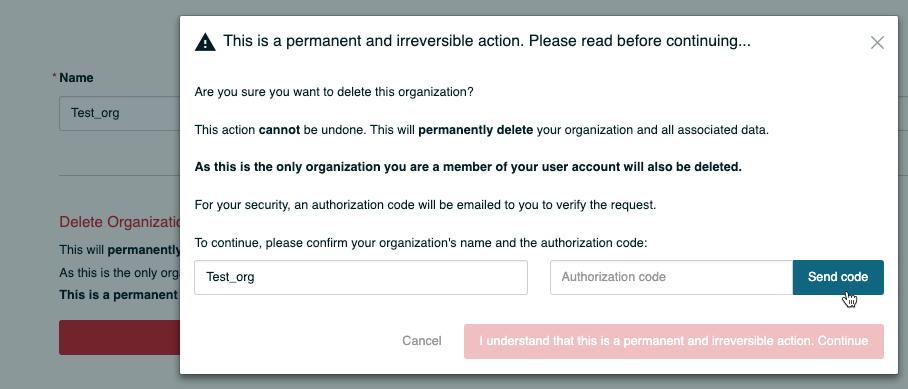
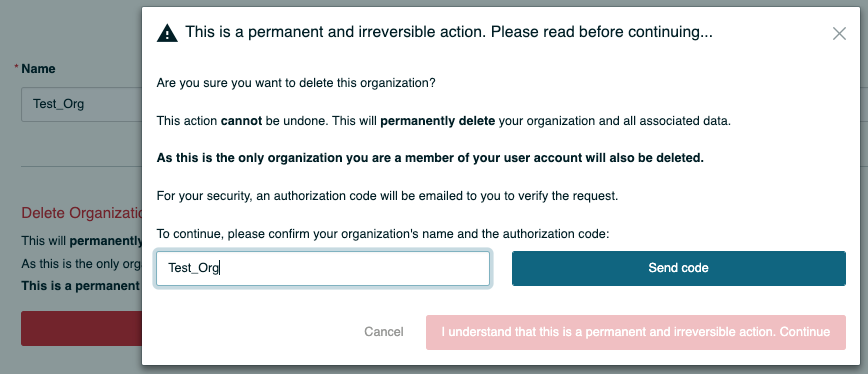
updated the modal image for UI changes and reordered the self deletion steps

Changed region(s): [[0.0, 0.0, 0.9954, 1.0], [0.0, 0.1765, 0.1244, 0.2353]]

diff --git a/content/en/docs/management_guide/managing_accounts.md b/content/en/docs/management_guide/managing_accounts.md
@@ -147,8 +147,8 @@ The option to delete your account is available for the user if there are no paid
 ![Deleting your account](/Images/account_settings_delete.png)
 
 1. Click **Delete**. A modal displays.
-2. Click **Send code**. An authorization code is emailed to your Platform user account email address.
-3. Type the password of your account used to sign into the Platform in the modal.
+2. Type the password of your account used to sign into the Platform in the modal.
+3. Click **Send code**. An authorization code is emailed to your Platform user account email address.
 4. Access your email with the authorization code, and then copy and paste or type the code into the **Authorization code** field in the modal.
 5. Click **I understand that this is a permanent and irreversible. Continue**.
 

diff --git a/content/en/docs/management_guide/organizations/managing_organizations.md b/content/en/docs/management_guide/organizations/managing_organizations.md
@@ -288,8 +288,8 @@ The option to delete an organization is available for the organization if there 
 
 1. (Optional) Copy the organization name from the Manage view.
 2. Click **Delete**. A modal displays.
-3. Click **Send code**. An authorization code is emailed to your Platform user account email address.
-4. Type or paste the organization name you want to delete in the modal.
+3. Type or paste the organization name you want to delete in the modal.
+4. Click **Send code**. An authorization code is emailed to your Platform user account email address.
 5. Access your email with the authorization code, and then copy and paste or type the code into the **Authorization code** field in the modal.
 6. Click **I understand that this is a permanent and irreversible. Continue**.
 
